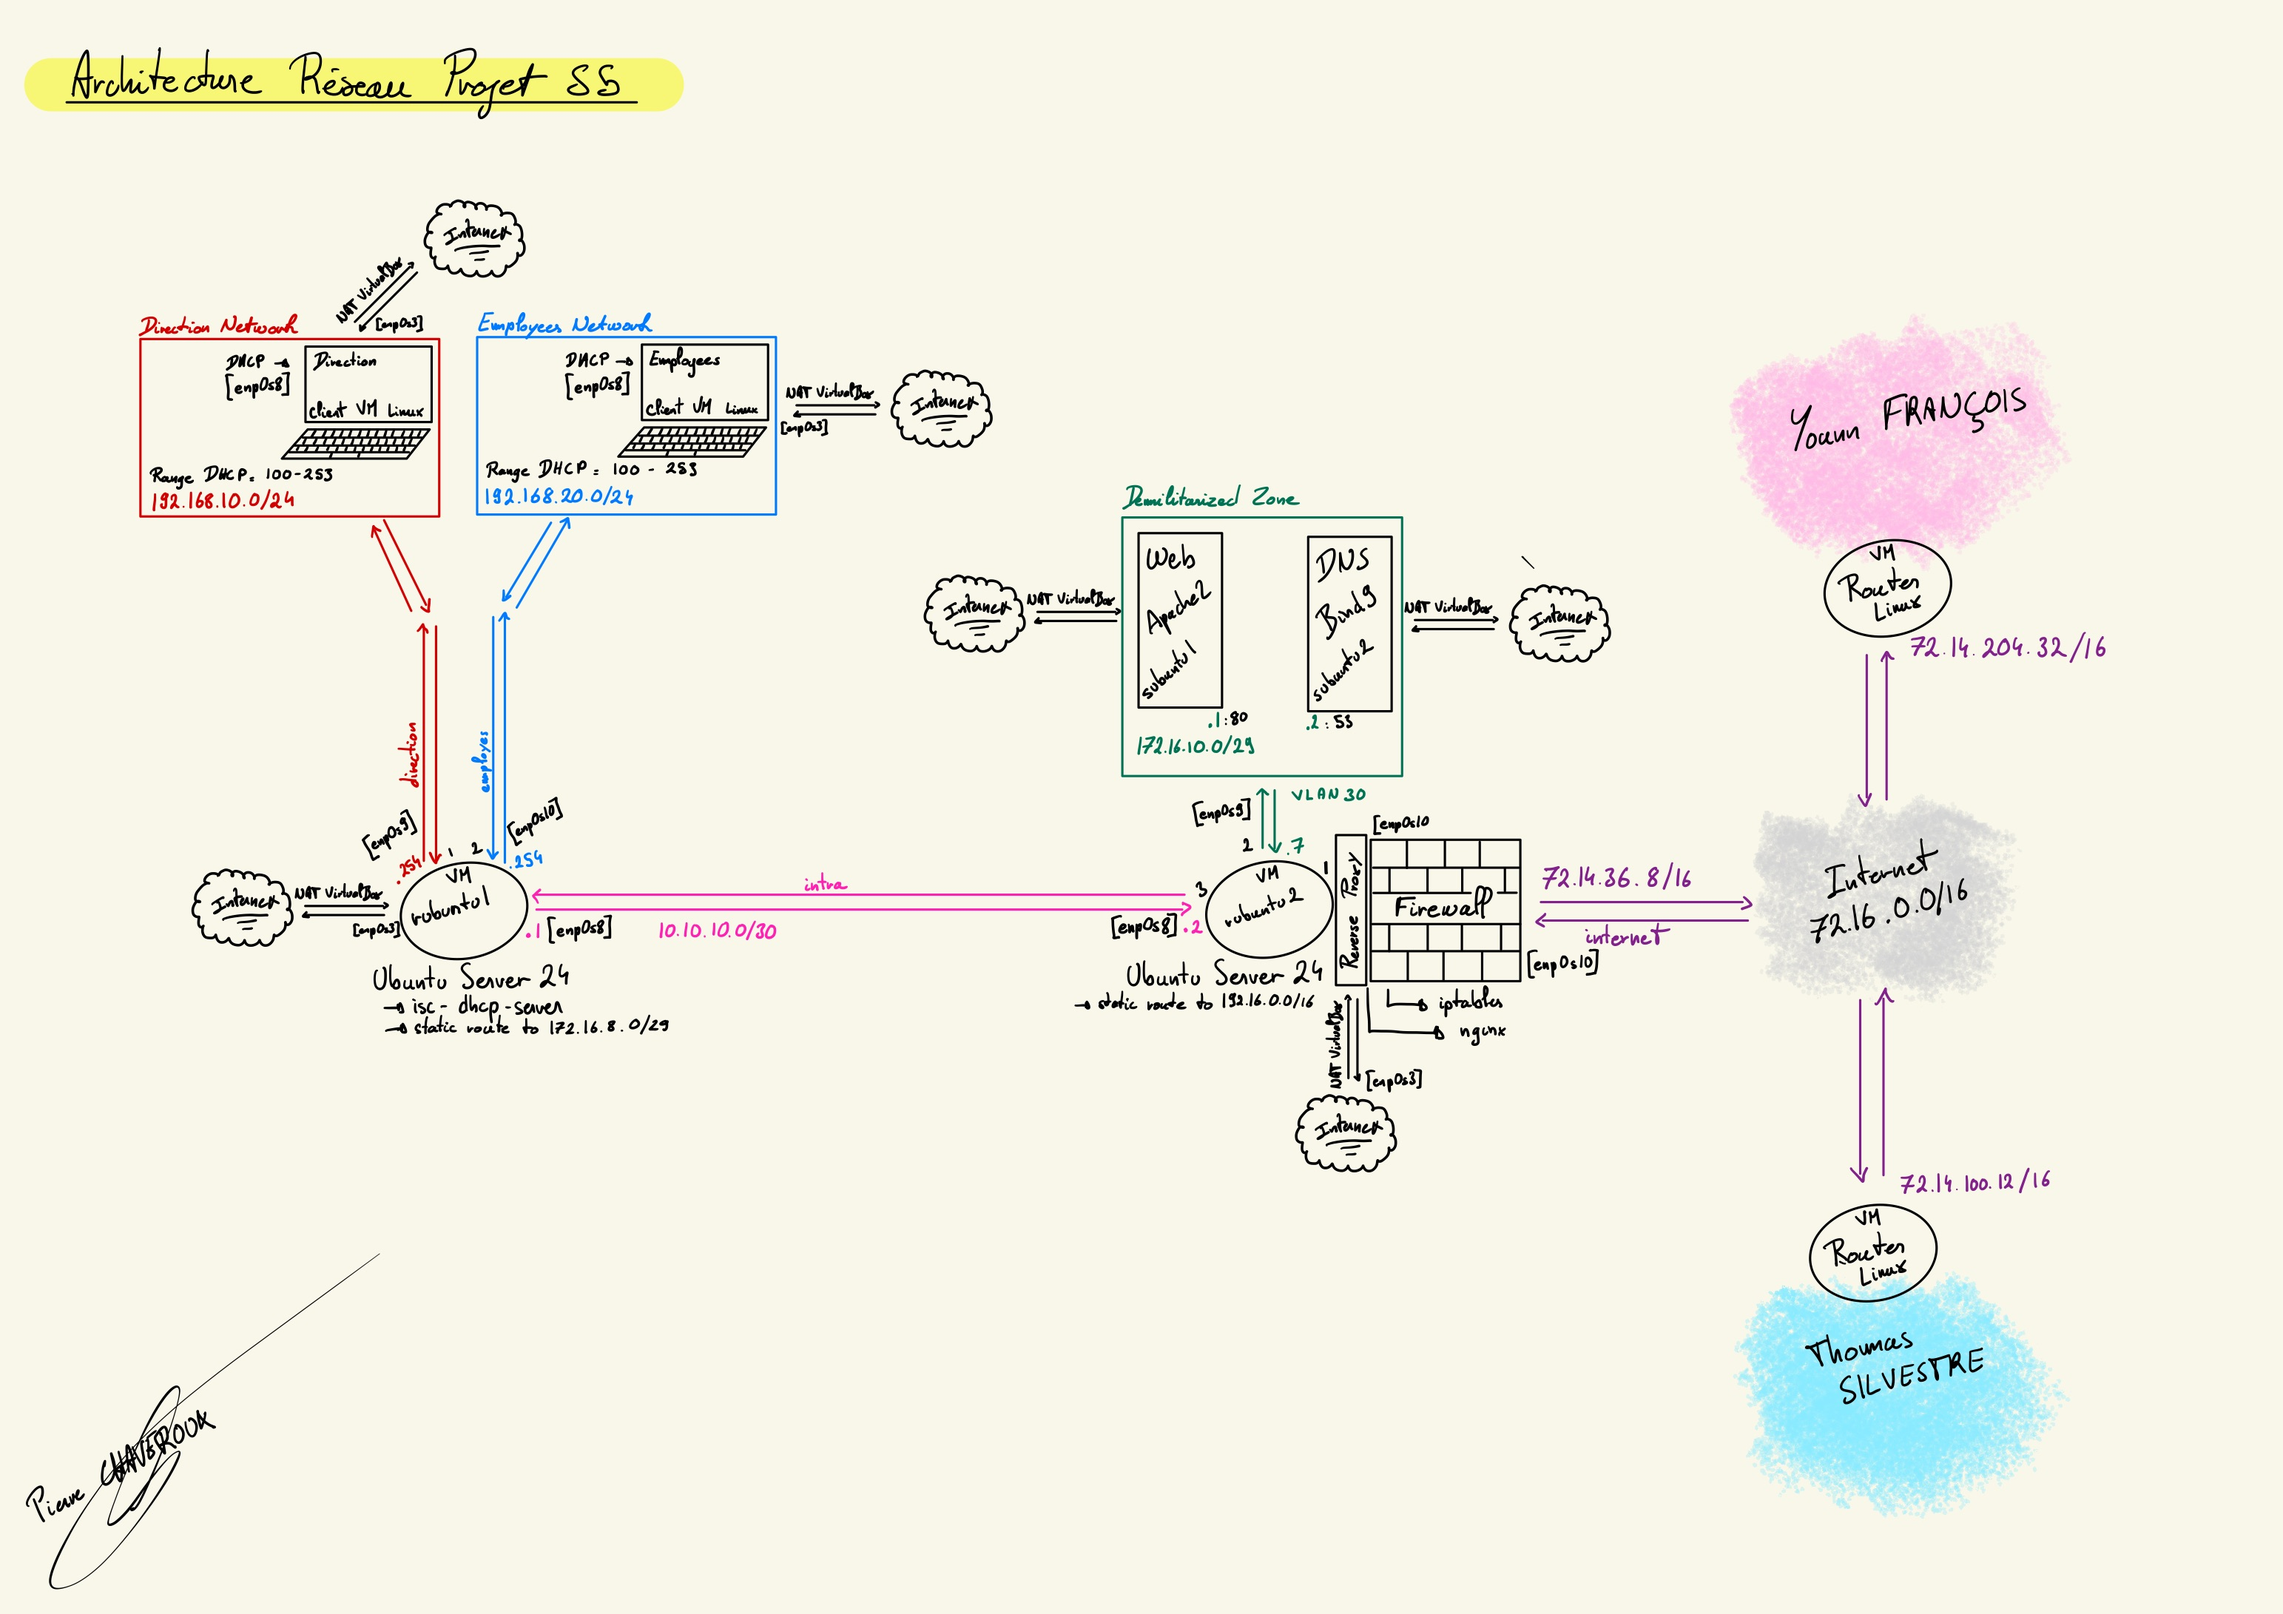
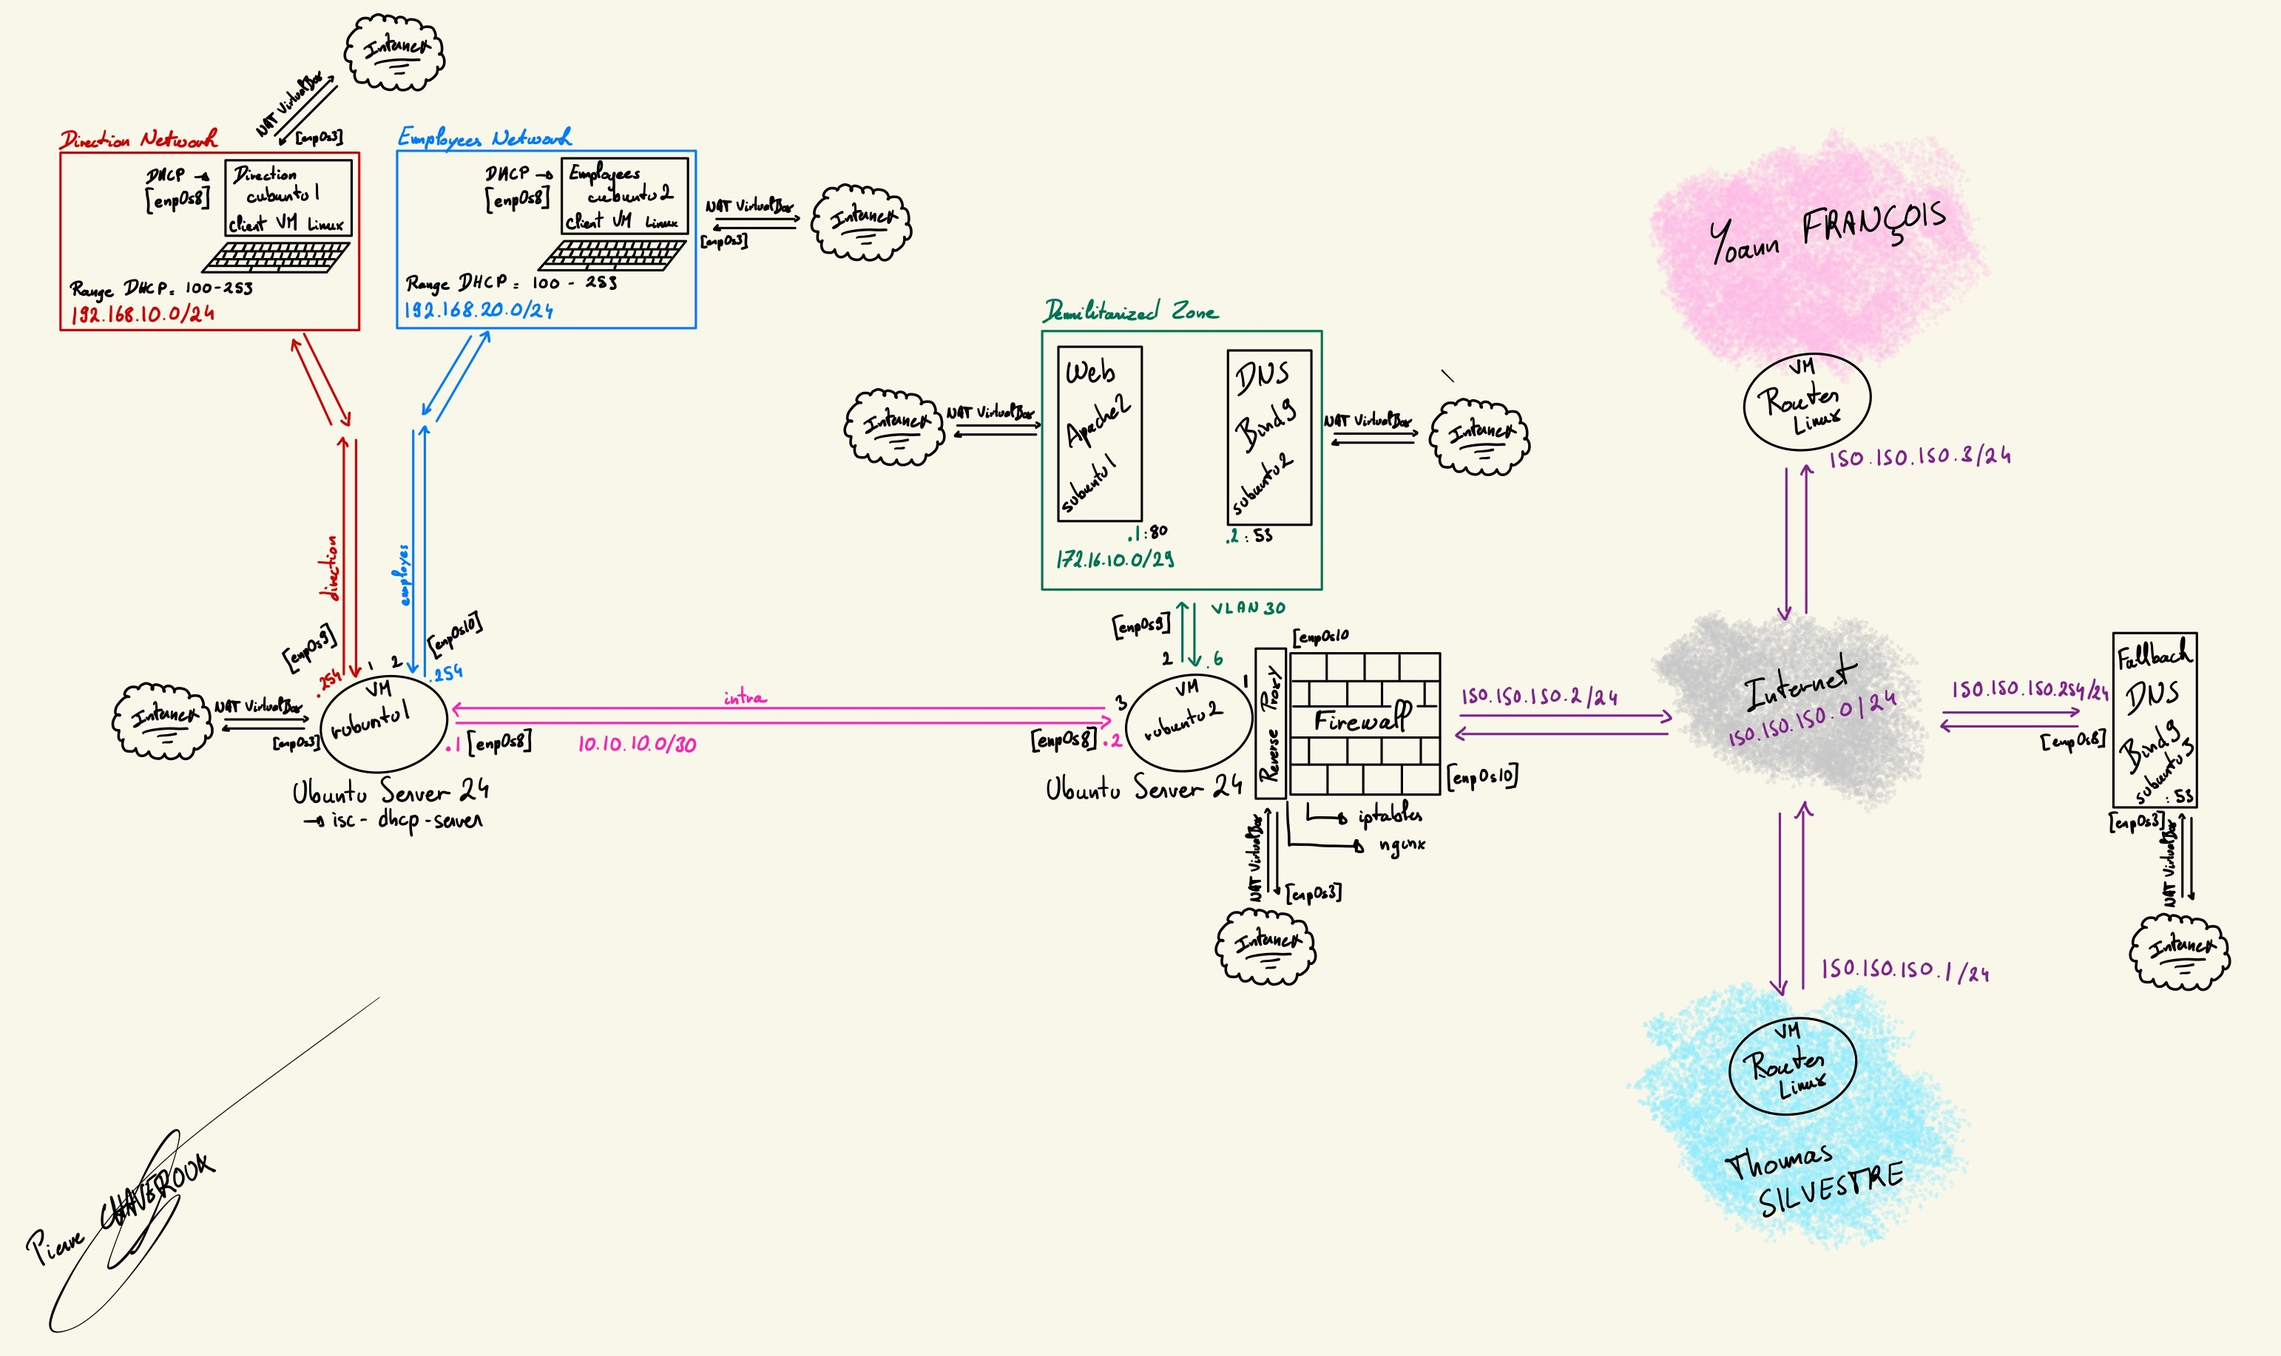
FINAL

Changed region(s): [[0.0, 0.0, 0.9961, 0.7459], [0.716, 0.6838, 0.9027, 0.9324], [0.0, 0.8391, 0.0934, 0.9635]]

diff --git a/README.md b/README.md
@@ -1,30 +1,113 @@
-# Projet Réseau
+# README: Pierre Chaveroux
 
-Cette architecture a été développée dans le cadre du projet réseau du premier semestre du cursus FISA-SN de l'N7.
+This project was conducted as part of the first-semester networking project in the FISA-SN program at INP-ENSEEIHT.
 
-Cette branche du projet correspond au travail effectué individuellement par Pierre Chaveroux. Le détail de l'interconnexion des différents réseaux du groupe est disponible en branche main.
+This branch corresponds to the individual work carried out by **Pierre Chaveroux**. Details on the group’s network interconnection can be found in the `main` branch.
 
 ---
 
-# Aperçu de l'architecture
+## Network Architecture Overview
 
-Voici une illustration de mon architecture :
+Below is an illustration of my implemented network architecture: 
 
 ![Network_Architecture](medias/pchaveroux_architecture.jpg)
 
 ---
 
-# Documentation
+## Key Technical Choices
 
-Retrouvez la configuration détaillée de chaque équipement dans les fichiers suivants :
-- Configuration du client n°1 - Administration : [cubuntu1](configuration_files/cubuntu1.md).
-- Configuration du client n°2 - Employees : [cubuntu2](configuration_files/cubuntu2.md).
-- Configuration du routeur n°1 - Private Network + DHCP : [rubuntu1](configuration_files/rubuntu1.md).
-- Configuration du routeur n°2 - Public Network + Proxy + Firewall : [rubuntu2](configuration_files/rubuntu2.md).
-- Configuration du serveur n°1 - Web Server : [subuntu1](configuration_files/subuntu1.md).
-- Configuration du serveur n°2 - DNS Server : [subuntu2](configuration_files/subuntu2.md).
+The project, titled **"Enterprise Network Deployment Project"**, simulates a small business network with employees, management (direction), and on-premises servers.
+
+### Architecture Composition
+The network is divided into three main sub-networks: 
+
+1. **Private networks for internal users**: 
+   - Two separate sub-networks configured with dynamic addressing via DHCPv4. 
+   - Management network: `192.168.10.0/24`. 
+   - Employee network: `192.168.20.0/24`. 
+   - Each host is provided with full network configuration (IP, mask, gateway, and DNS) by the DHCP server.
+
+2. **Public network (DMZ)** for exposed servers: 
+   - Addressed as `172.16.10.0/29`, it hosts two proprietary servers: a Web server and a DNS server.
+
+3. **Interconnection network** with group members (Thomas Silvestre and Yoann François): 
+   - Addressed as `150.150.150.0/24`, it includes a fallback DNS server queried when local DNS fails to resolve domain names. 
+
+### Key Features of the Architecture
+- **Nginx Proxy** on the edge router to allow external access to the Web server (rubuntu2). 
+- **Web server** to allow local and external access to the enterprise resources (subuntu1).
+- **DNS server with local authority and fallback**: 
+  - The local authority (subuntu2) resolves the private domain `pchaveroux.webserver.com`. 
+  - The fallback DNS (subuntu3) resolves other domains: `tsilvestre.webserver.com` and `yfrancois.webserver.com`. 
+- **DHCP server** for dynamic IPv4 addressing of internal clients (rubuntu1). 
+- **Firewalling with IPtables** on the edge router (rubuntu2) (NAT, DNS, DHCP, and Web filtering). 
+
+
+Configuration files are available in the annex for further technical insight. 
 
 ---
 
+## Challenges and Solutions
 
+## Main Challenges and Solutions
+
+| **Challenge**                            | **Solution**                                                                                       |
+|------------------------------------------|---------------------------------------------------------------------------------------------------|
+| **Fallback DNS setup**                   | The `dnssec-validation yes;` option, intended for enhanced security, prevented proper domain name resolution. Disabling it resolved the issue. |
+| **IPtables rules configuration**         | Rules were reorganized into a dedicated file. Reviewing HTTP chronograms helped me fix the issues quickly. |
+
+---
+
+## Potential Improvements
+1. **Adding new services** such as an FTP or LDAP server to enhance the real infrastructure. 
+2. **Enhancing network security** by: 
+   - Using a dedicated hardware firewall : Fortinet or Stormshield (not the best, but French Power !). 
+   - Implementing an EDR system to enhance the architecture security. 
+
+---
+
+## Equipment and Interface Configuration
+
+| **Official_Name**    | **Intelligible Name**    | **Interface**          | **IP Address**               |
+|----------------------|--------------------------|------------------------|------------------------------|
+| **rubuntu2**         | **Edge Router**          | `enp0s3` (internet)    | NAT Machine Hote             |
+|                      |                          | `enp0s8` (interne)     | 10.10.10.2/30                |
+|                      |                          | `enp0s9` (DMZ)         | 172.16.10.6/29               |
+|                      |                          | `enp0s10` (groupe)     | 150.150.150.2/24             |
+|----------------------|--------------------------|------------------------|------------------------------|
+| **rubuntu1**         | **Internal Router**      | `enp0s3` (internet)    | NAT Machine Hote             |
+|                      |                          | `enp0s8` (interne)     | 10.10.10.1/30                |
+|                      |                          | `enp0s9` (direction)   | 192.168.10.0/24              |
+|                      |                          | `enp0s10` (employees)  | 192.168.20.0/24              |
+|----------------------|--------------------------|------------------------|------------------------------|
+| **subuntu1**         | **Web Server**           | `enp0s3` (internet)    | NAT Machine Hote             |
+|                      |                          | `enp0s8` (DMZ)         | 172.16.10.1/29               |
+|----------------------|--------------------------|------------------------|------------------------------|
+| **subunut2**         | **Private DNS Server**   | `enp0s3` (internet)    | NAT Machine Hote             |
+|                      |                          | `enp0s8` (DMZ)         | 172.16.10.2/29               |
+|----------------------|--------------------------|------------------------|------------------------------|
+| **subuntu3**         | **Fallback DNS Server**  | `enp0s3` (internet)    | NAT Machine Hote             |
+|                      |                          | `enp0s8` (groupe)      | 150.150.150.254/24           |
+|----------------------|--------------------------|------------------------|------------------------------|
+| **cubuntu1**         | **Direction Client**     | `enp0s3` (internet)    | NAT Machine Hote             |
+|                      |                          | `enp0s8` (direction)   | DHCP : 192.168.10.100-253/24 |
+|----------------------|--------------------------|------------------------|------------------------------|
+| **cubuntu2**         | **Employee Client**      | `enp0s3` (internet)    | NAT Machine Hote             |
+|                      |                          | `enp0s8` (employees)   | DHCP : 192.168.20.100-253/24 |
+|----------------------|--------------------------|------------------------|------------------------------|
+
+--- 
+
+## Technical Documentation
+
+Detailed configurations for each device: 
+- **Client #1 (Administration)**: [cubuntu1](configuration_files/cubuntu1.md). 
+- **Client #2 (Employees)**: [cubuntu2](configuration_files/cubuntu2.md). 
+- **Router #1 (Private Network + DHCP)**: [rubuntu1](configuration_files/rubuntu1.md). 
+- **Router #2 (Public Network + Proxy + Firewall)**: [rubuntu2](configuration_files/rubuntu2.md). 
+- **Web Server**: [subuntu1](configuration_files/sububuntu1.md). 
+- **DNS Server**: [subuntu2](configuration_files/sububuntu2.md). 
+- **Fallback DNS Server**: [sububuntu3](configuration_files/sububuntu3.md). 
+
+---
 

diff --git a/configuration_files/rubuntu2.md b/configuration_files/rubuntu2.md
@@ -84,6 +84,8 @@ sudo iptables -A FORWARD -i enp0s9 -o enp0s10 -p udp --dport 53 -j ACCEPT
 sudo iptables -A FORWARD -i enp0s10 -o enp0s9 -p udp --sport 53 -j ACCEPT
 
 #### Allow clients to access the internet
+sudo iptables -A FORWARD -i enp0s8 -o enp0s10 -p tcp --dport 80 -j ACCEPT
+sudo iptables -A FORWARD -i enp0s10 -o enp0s8 -p tcp --sport 80 -j ACCEPT
 sudo iptables -A FORWARD -i enp0s8 -o enp0s10 -p tcp --dport 80 -m conntrack --ctstate NEW,ESTABLISHED -j ACCEPT
 sudo iptables -A FORWARD -i enp0s10 -o enp0s8 -p tcp --sport 80 -m conntrack --ctstate ESTABLISHED -j ACCEPT
 
